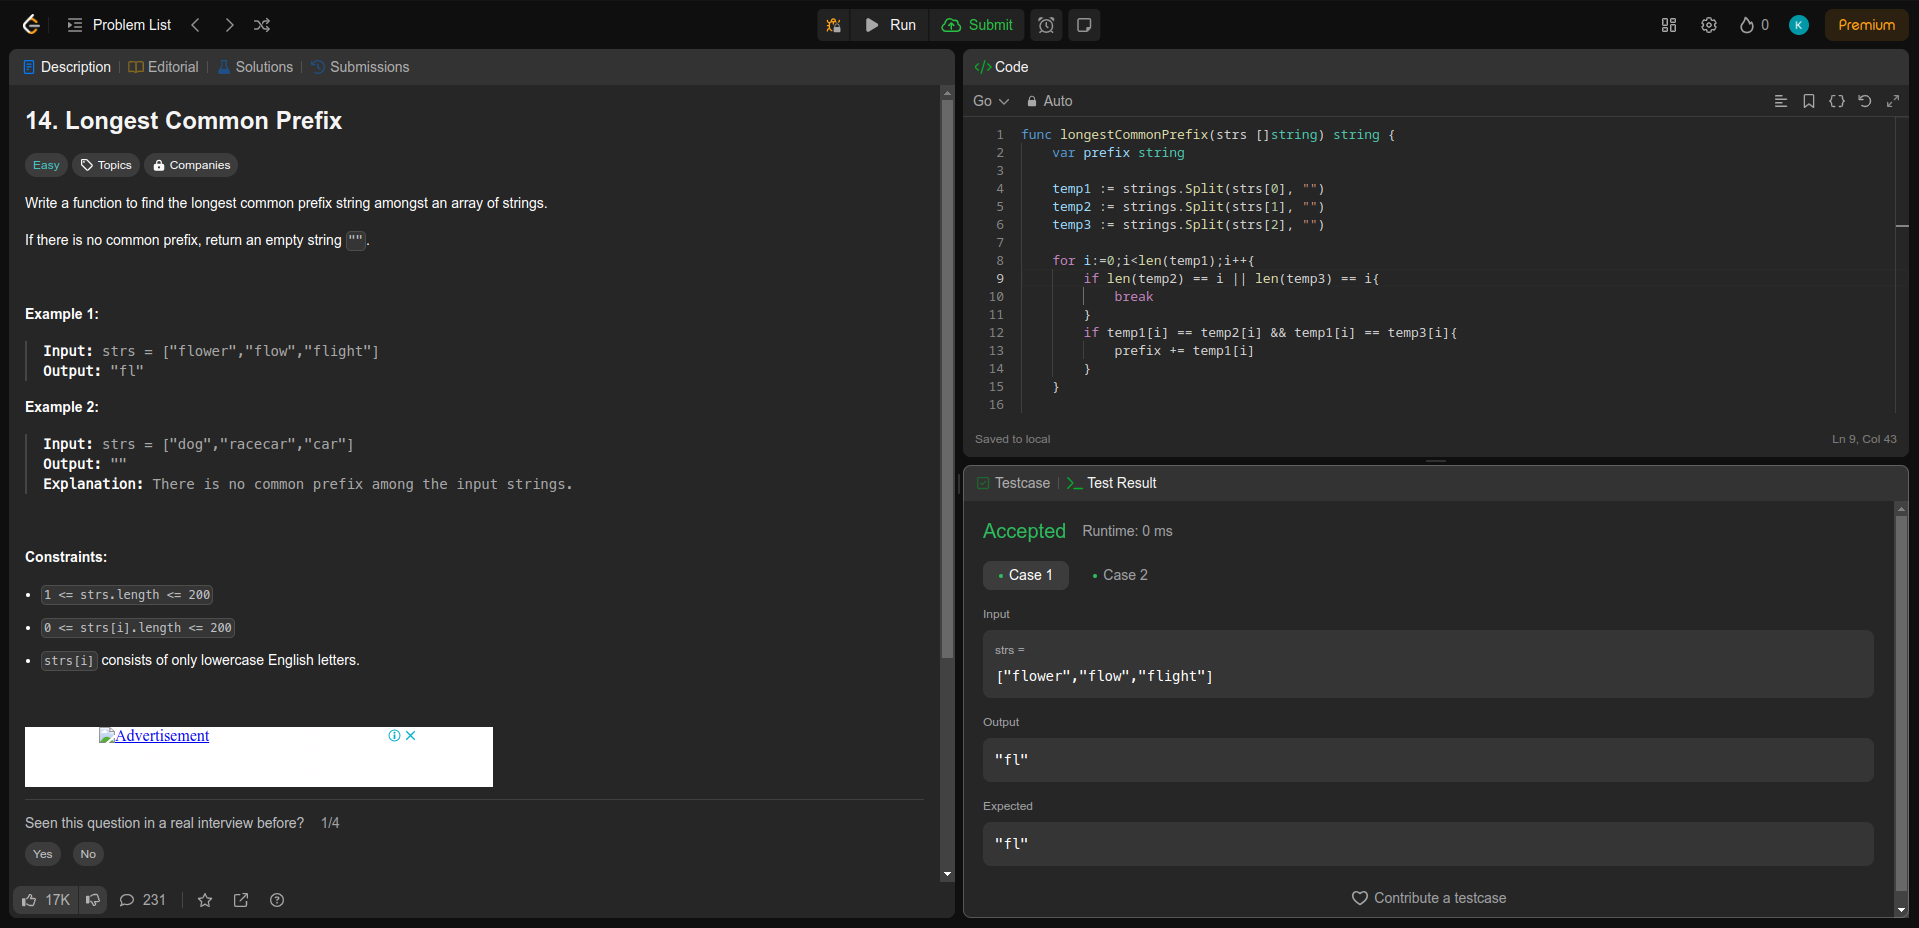
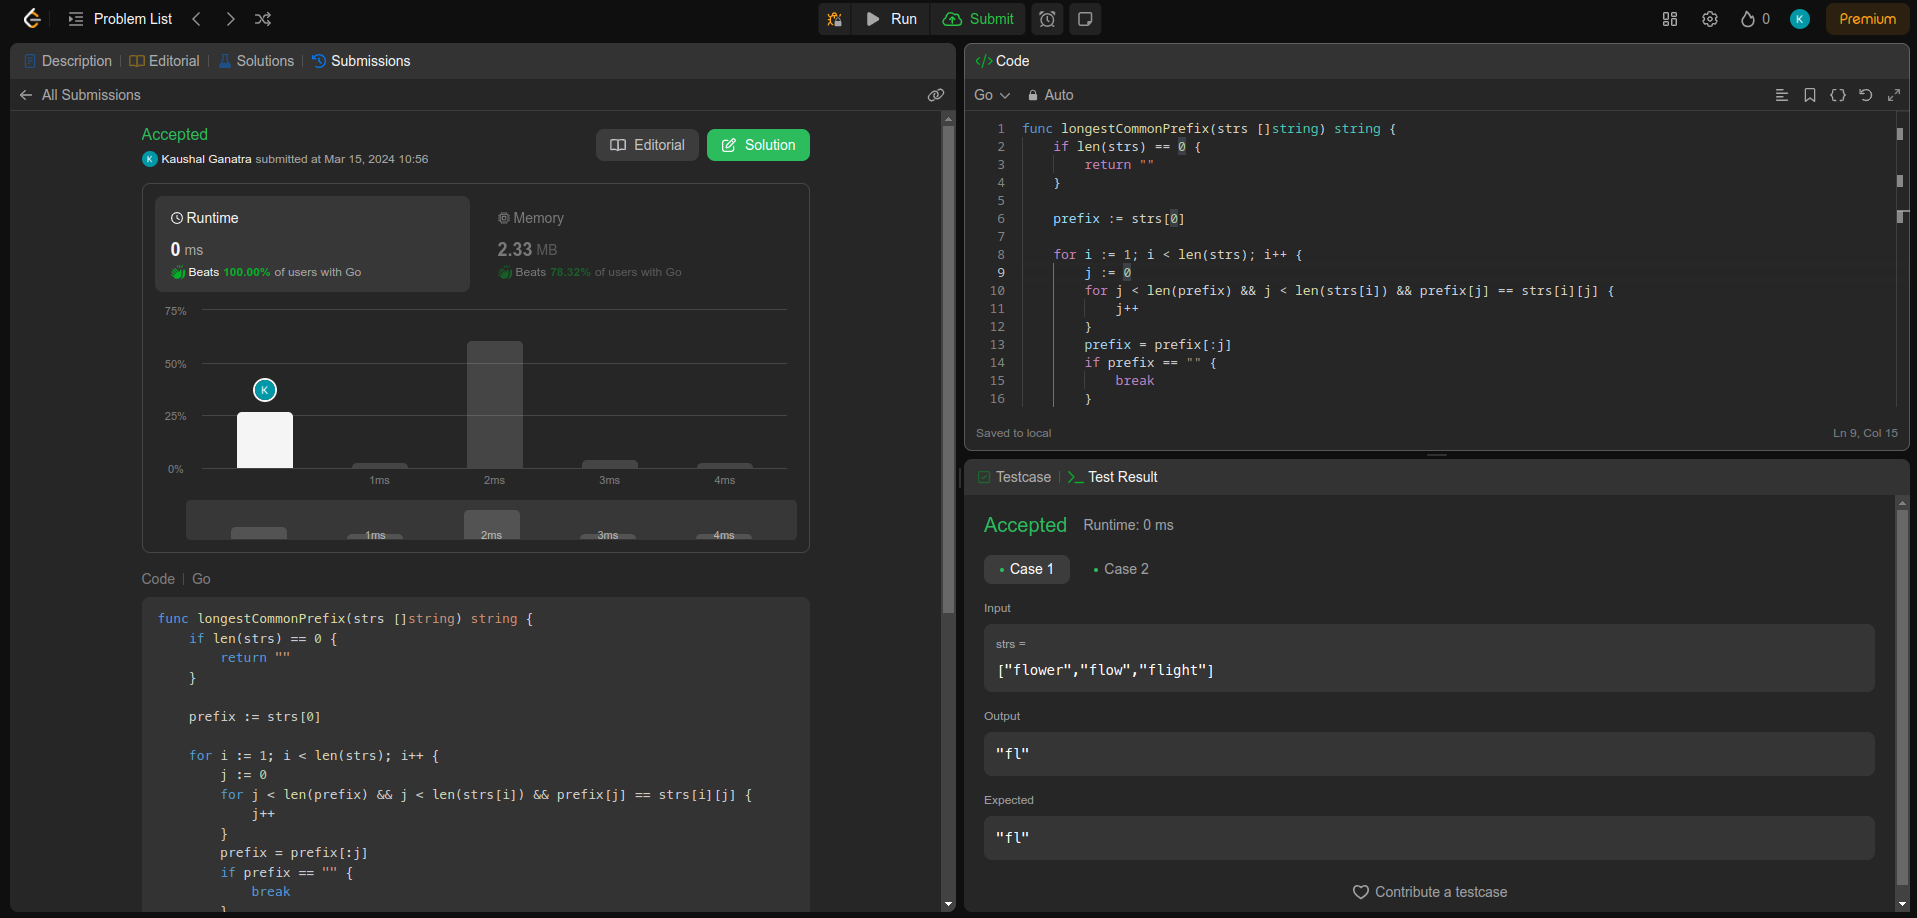
Leetcode Que1 with code and ss

diff --git a/Que1/Kaushal.go b/Que1/Kaushal.go
@@ -1,18 +1,20 @@
 func longestCommonPrefix(strs []string) string {
-    var prefix string
-
-    temp1 := strings.Split(strs[0], "")
-    temp2 := strings.Split(strs[1], "")
-    temp3 := strings.Split(strs[2], "")
-
-    for i:=0;i<len(temp1);i++{
-        if len(temp2) == i || len(temp3) == i{
-            break
-        }
-        if temp1[i] == temp2[i] && temp1[i] == temp3[i]{
-            prefix += temp1[i]
-        } 
+    if len(strs) == 0 {
+        return ""
     }
 
+    prefix := strs[0]
+
+    for i := 1; i < len(strs); i++ {
+        j := 0
+        for j < len(prefix) && j < len(strs[i]) && prefix[j] == strs[i][j] {
+            j++
+        }
+        prefix = prefix[:j]
+        if prefix == "" {
+            break
+        }
+    }
     return prefix
 }
+
